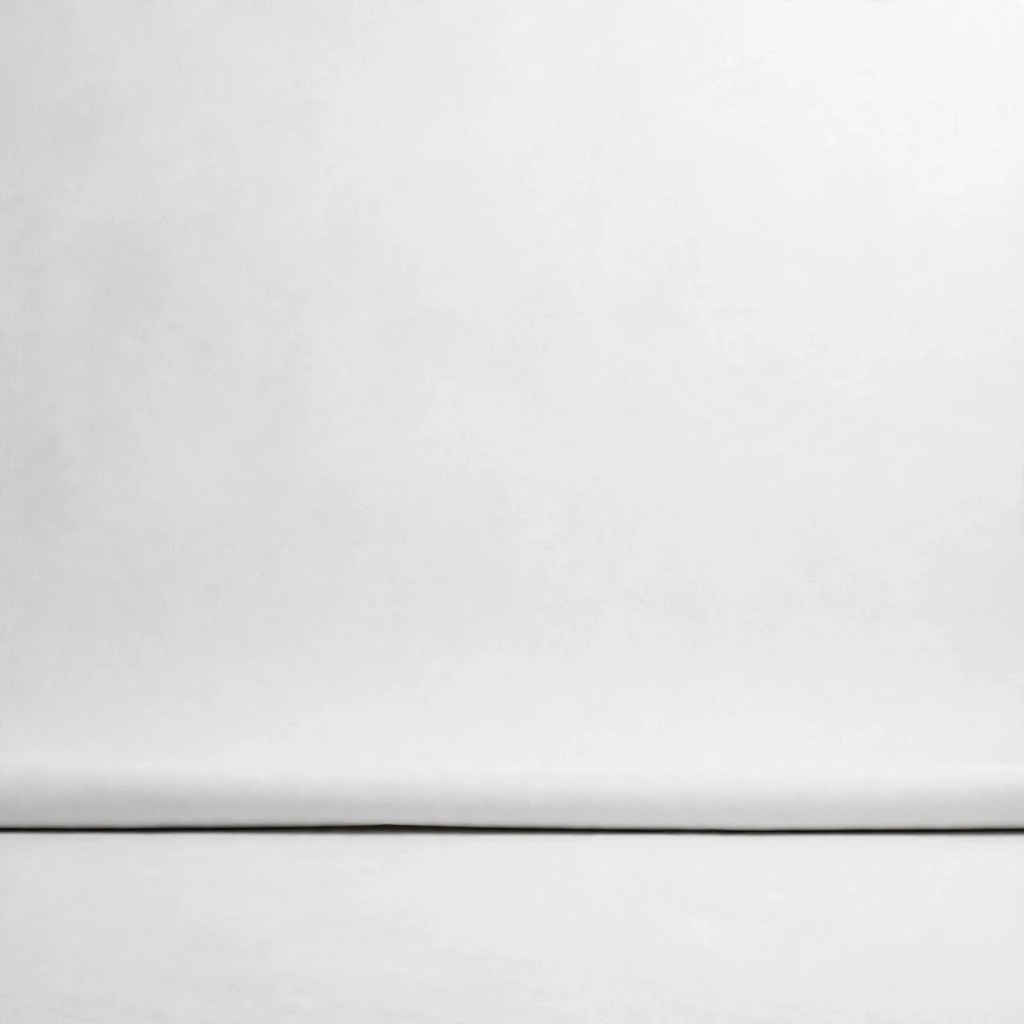
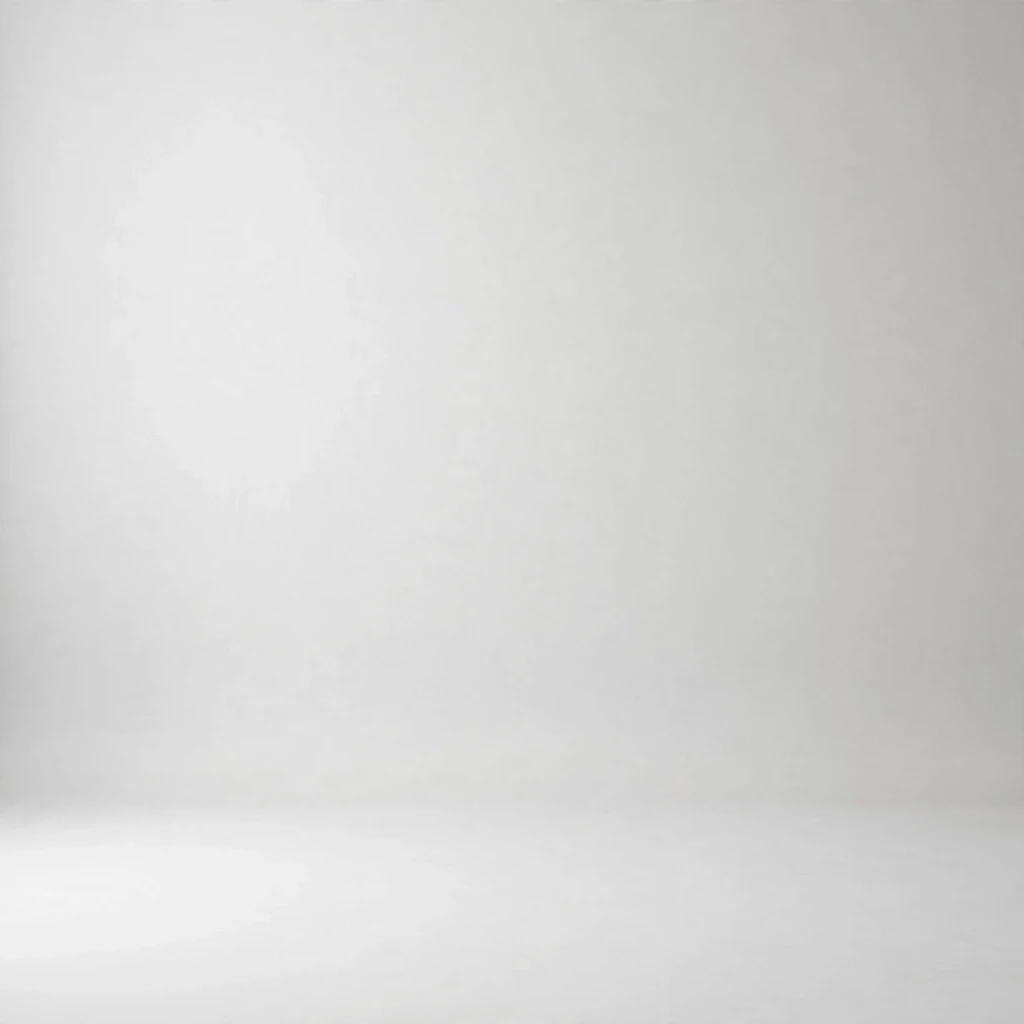
fix: make the studio backdrop floor transitions very faint
Regenerate the four studio backdrops with only a very faint, soft
floor-to-wall tonal transition. No visible roll, crease, line or shadow; the
charcoal preset is the reference for subtlety.

Generated and reviewed 4 scene images through the lab ($0.04). Verified:
typecheck, eslint, library-data unit tests, scenes/scene-reference E2E, and
the serial journey (11/11) with refreshed Scenes screenshots.

diff --git a/src/shared/scene-presets.ts b/src/shared/scene-presets.ts
@@ -33,25 +33,25 @@ export const BUNDLED_SCENE_PRESETS: readonly BundledScenePreset[] = [
     id: 'white-seamless',
     name: 'White seamless studio',
     category: 'Studio backdrops',
-    blurb: 'A bright white backdrop with a soft floor crease for any product.'
+    blurb: 'A bright white backdrop with a very faint floor transition.'
   },
   {
     id: 'warm-grey-sweep',
     name: 'Warm grey studio',
     category: 'Studio backdrops',
-    blurb: 'A warm-grey backdrop with a soft floor crease for neutral products.'
+    blurb: 'A warm-grey backdrop with a very faint floor transition.'
   },
   {
     id: 'blush-paper',
     name: 'Blush paper backdrop',
     category: 'Studio backdrops',
-    blurb: 'A blush backdrop with a soft floor crease for beauty and gifts.'
+    blurb: 'A blush backdrop with a very faint floor transition.'
   },
   {
     id: 'charcoal-sweep',
     name: 'Charcoal studio',
     category: 'Studio backdrops',
-    blurb: 'A charcoal backdrop with a soft floor crease for jewelry and glassware.'
+    blurb: 'A charcoal backdrop with a very faint floor transition.'
   },
   {
     id: 'stone-plinth',

diff --git a/docs/lab.md b/docs/lab.md
@@ -75,7 +75,7 @@ Put a real product photo in `lab/sources/` and pass its path to `edit` or `creat
 
 ## Scene pack
 
-`npm run lab -- scenes` generates the 33 included preset scenes from `scripts/lab/scene-pack.mjs` (33 images, $0.33) into `lab/scenes/`. Each request is a square generation of a setting with an empty surface and no product subject; the lab writes a 1024×1024 WebP and a 480×480 `<id>-thumb.webp`. The four studio backdrops must be straight-on with a soft, gently rolling floor-to-wall crease low in the frame; keep the wall and floor readable, with no visible paper roll or side edge and no harsh shadows. The three Outdoor spaces wall facades must show the empty wall where a lamp would hang and must not include the lamp. `--ids` and `--force` narrow or replace the batch. Generate in batches of 8–12 and review each run's `sheet.webp` for a product, people, readable text or logos, a clear empty surface and the right category mood; regenerate with a stronger no-product clause or use a reserve scene if one keeps a subject. Copy only approved files into `resources/scenes/`; `src/shared/scene-presets.ts` holds the catalog and the asset test checks every full and thumb file. The unit test also fails if the pack and the catalog disagree on an id, name or category. Scenes are reference photos, not the eight prompt-based scene looks in Quick Looks.
+`npm run lab -- scenes` generates the 33 included preset scenes from `scripts/lab/scene-pack.mjs` (33 images, $0.33) into `lab/scenes/`. Each request is a square generation of a setting with an empty surface and no product subject; the lab writes a 1024×1024 WebP and a 480×480 `<id>-thumb.webp`. The four studio backdrops must be straight-on with only a very faint, soft floor-to-wall tonal transition; no visible roll, crease, line or shadow. The three Outdoor spaces wall facades must show the empty wall where a lamp would hang and must not include the lamp. `--ids` and `--force` narrow or replace the batch. Generate in batches of 8–12 and review each run's `sheet.webp` for a product, people, readable text or logos, a clear empty surface and the right category mood; regenerate with a stronger no-product clause or use a reserve scene if one keeps a subject. Copy only approved files into `resources/scenes/`; `src/shared/scene-presets.ts` holds the catalog and the asset test checks every full and thumb file. The unit test also fails if the pack and the catalog disagree on an id, name or category. Scenes are reference photos, not the eight prompt-based scene looks in Quick Looks.
 
 ## Example images
 

diff --git a/DECISIONS.md b/DECISIONS.md
@@ -345,3 +345,7 @@ Each entry records a choice that was not fixed by the brief, or a place where th
 143. **The packaged sheet set is a product, the studio backdrops carry a soft floor crease, and Lifestyle rooms gets a bedroom dresser.** The packaged sheet mock-up no longer belongs in a scene library that treats images as setting and light; it is starter product 101 in Textiles and soft furnishings on the product white background. Its old Lifestyle rooms slot is replaced by a bedroom dresser scene, so the scene count stays 33 and every scene is product-free again. The four studio backdrops are now straight-on with a soft, gently rolling floor-to-wall crease low in the frame so the floor and wall are readable when a product is placed on them, with no visible paper roll or side edge and no harsh shadows. This supersedes the flat, no-floor studio backdrops and the packaged-sheet scene in Decision 142.
 
 144. **The People page pages 24 per section so the starter grid fills its rows.** The starter grid is eight columns at 1440, so 50 people paged 20 at a time left four empty spots in the third row; 24 fills three full rows. Both Your People and Starter People use the same 24 page size and the pagination clamps and resets the same way. This supersedes the 20-per-page detail in Decision 141.
+
+## Faint backdrop transitions
+
+145. **The studio backdrops show only a very faint floor-to-wall tonal transition, not a crease.** The four studio presets are straight-on, seamless paper wall-and-floor photographs where the floor is only slightly lighter than the wall and the change is soft and out of focus. There is no visible roll, crease, edge, horizon line or shadow; the charcoal preset is the reference for how subtle the transition should read. This supersedes the visible crease detail in Decision 143.

diff --git a/docs/manual-test.md b/docs/manual-test.md
@@ -71,7 +71,7 @@ On this headless Linux host, run Playwright through Xvfb (`xvfb-run -a npx playw
 ## Scenes
 
 - Scenes shows “33 starter scenes · N of yours,” search, sort, category pills, and pagination. The starter scenes are filtered by six categories; Your Scenes pages separately.
-- The four studio backdrops are straight-on with a soft floor-to-wall crease low in the frame, no visible paper roll or side edge, and no harsh shadows; the three Outdoor spaces wall facades have an empty space for a hanging lamp and no lamp in the frame.
+- The four studio backdrops are straight-on with only a very faint, soft floor-to-wall tonal transition; no visible roll, crease, line or shadow; the three Outdoor spaces wall facades have an empty space for a hanging lamp and no lamp in the frame.
 - Add Scene Photo saves a photo with a name; user scenes can be renamed or deleted. Opening a scene shows the full image and Make an Image with this Scene, which opens the Image Generator with the scene chip ready for a product photo.
 - Choose a Scene in the Image Editor or Image Generator opens a dialog with Presets, Your Scenes, and Projects. Presets and Your Scenes use the scene reference path; Projects keeps the existing ready-image scene reference. The setting and light are borrowed; the subject is never copied.
 - The Scenes page and the scene picker are included in the axe pass.
